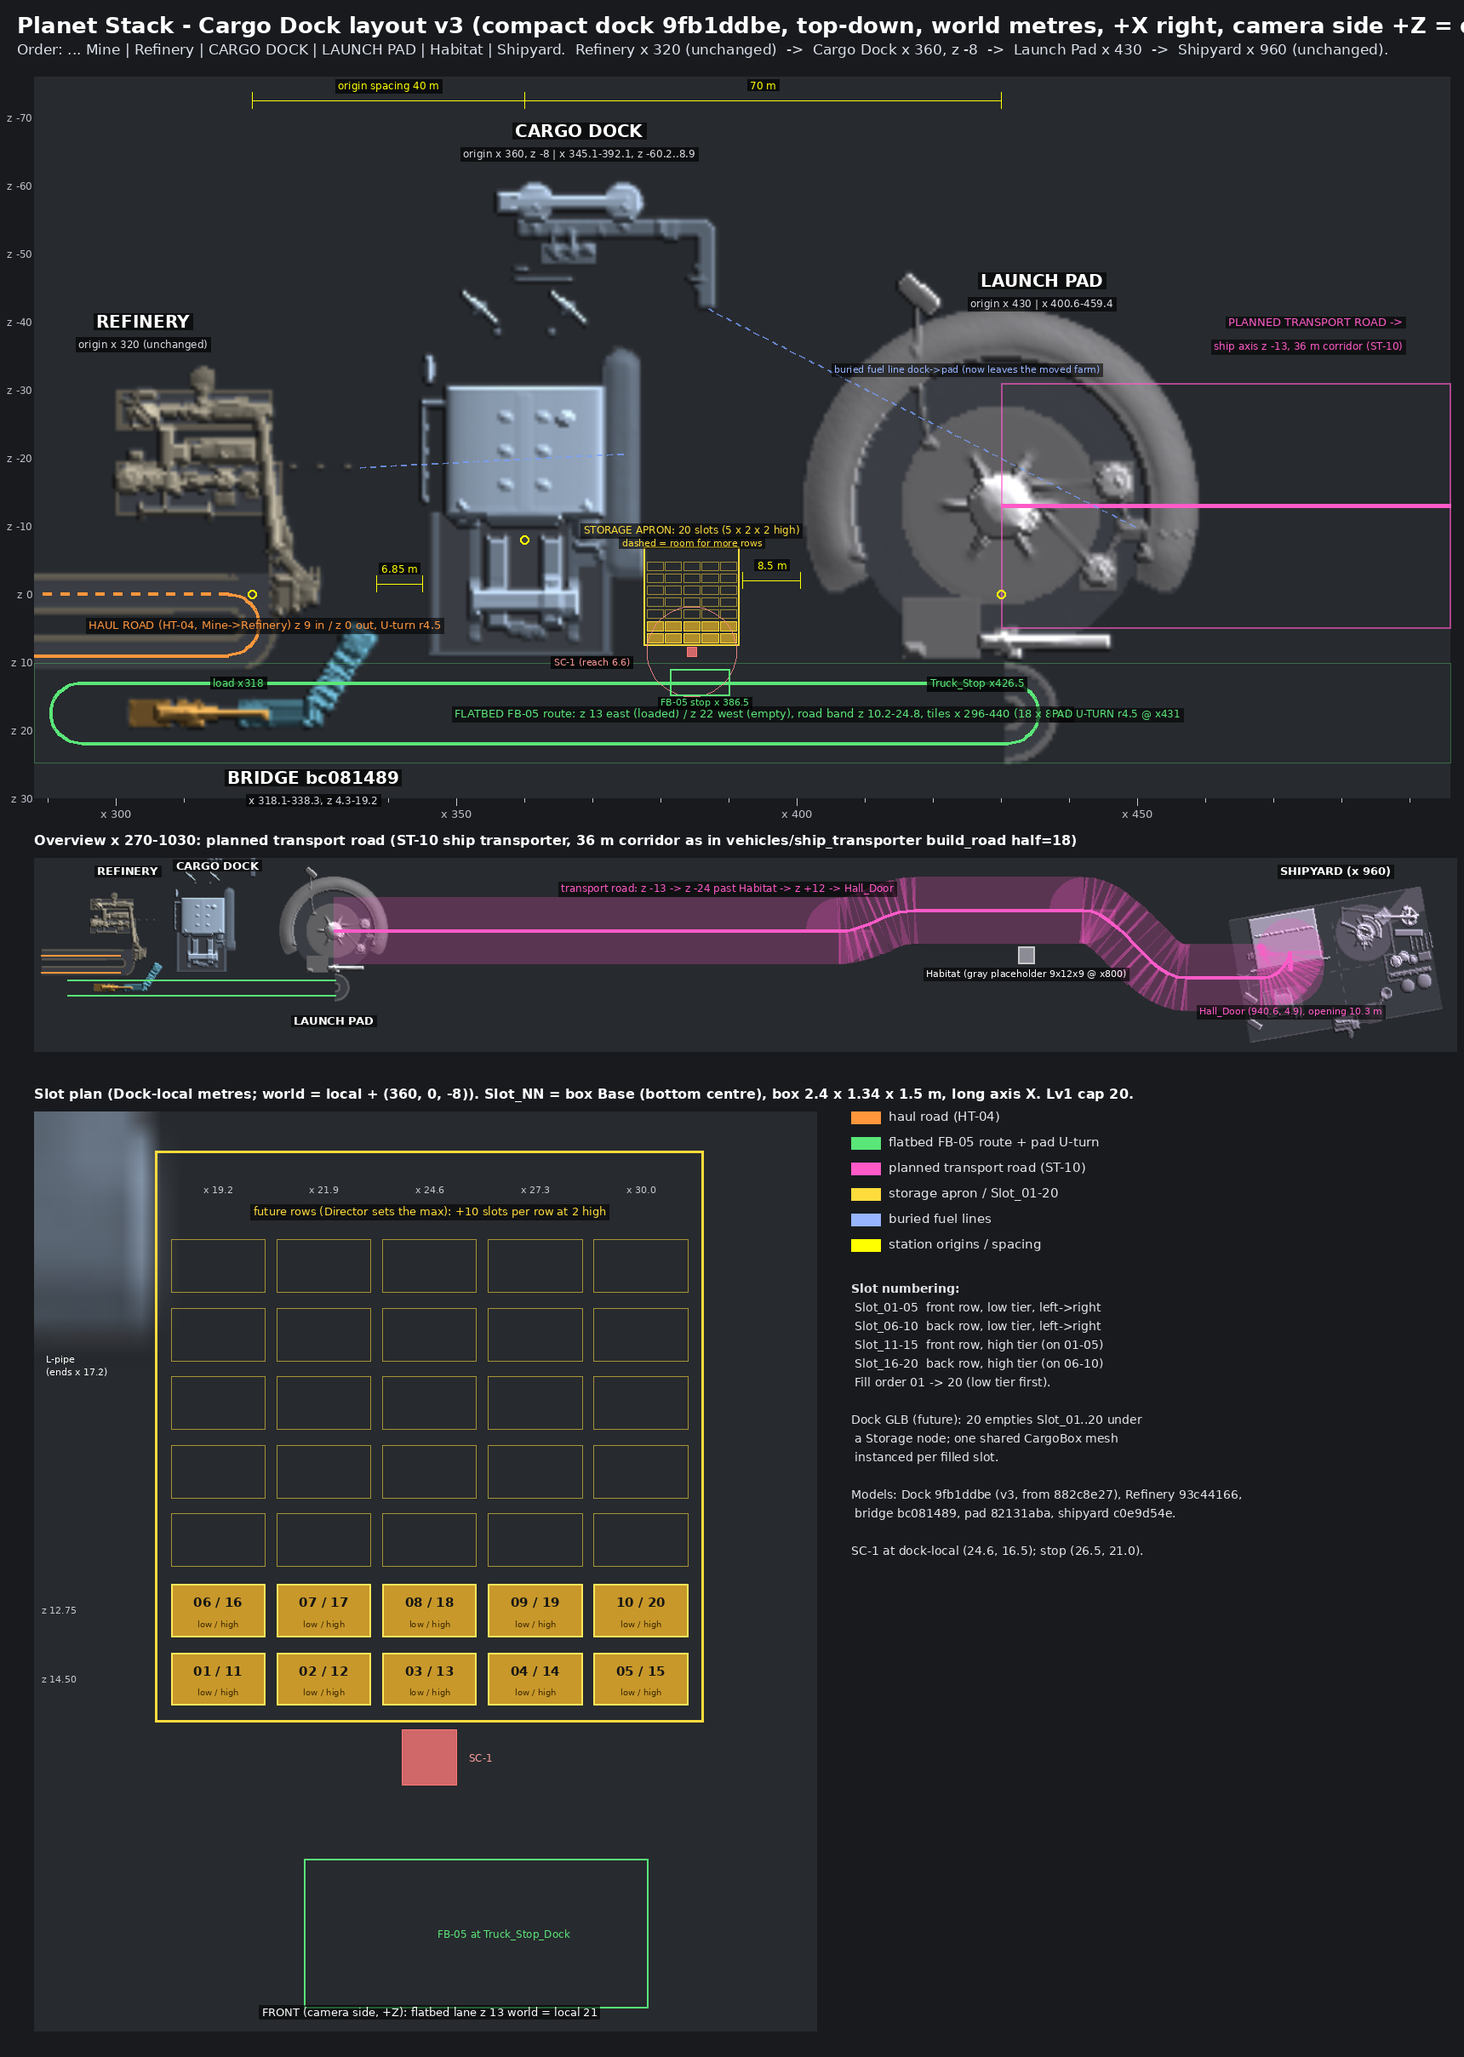
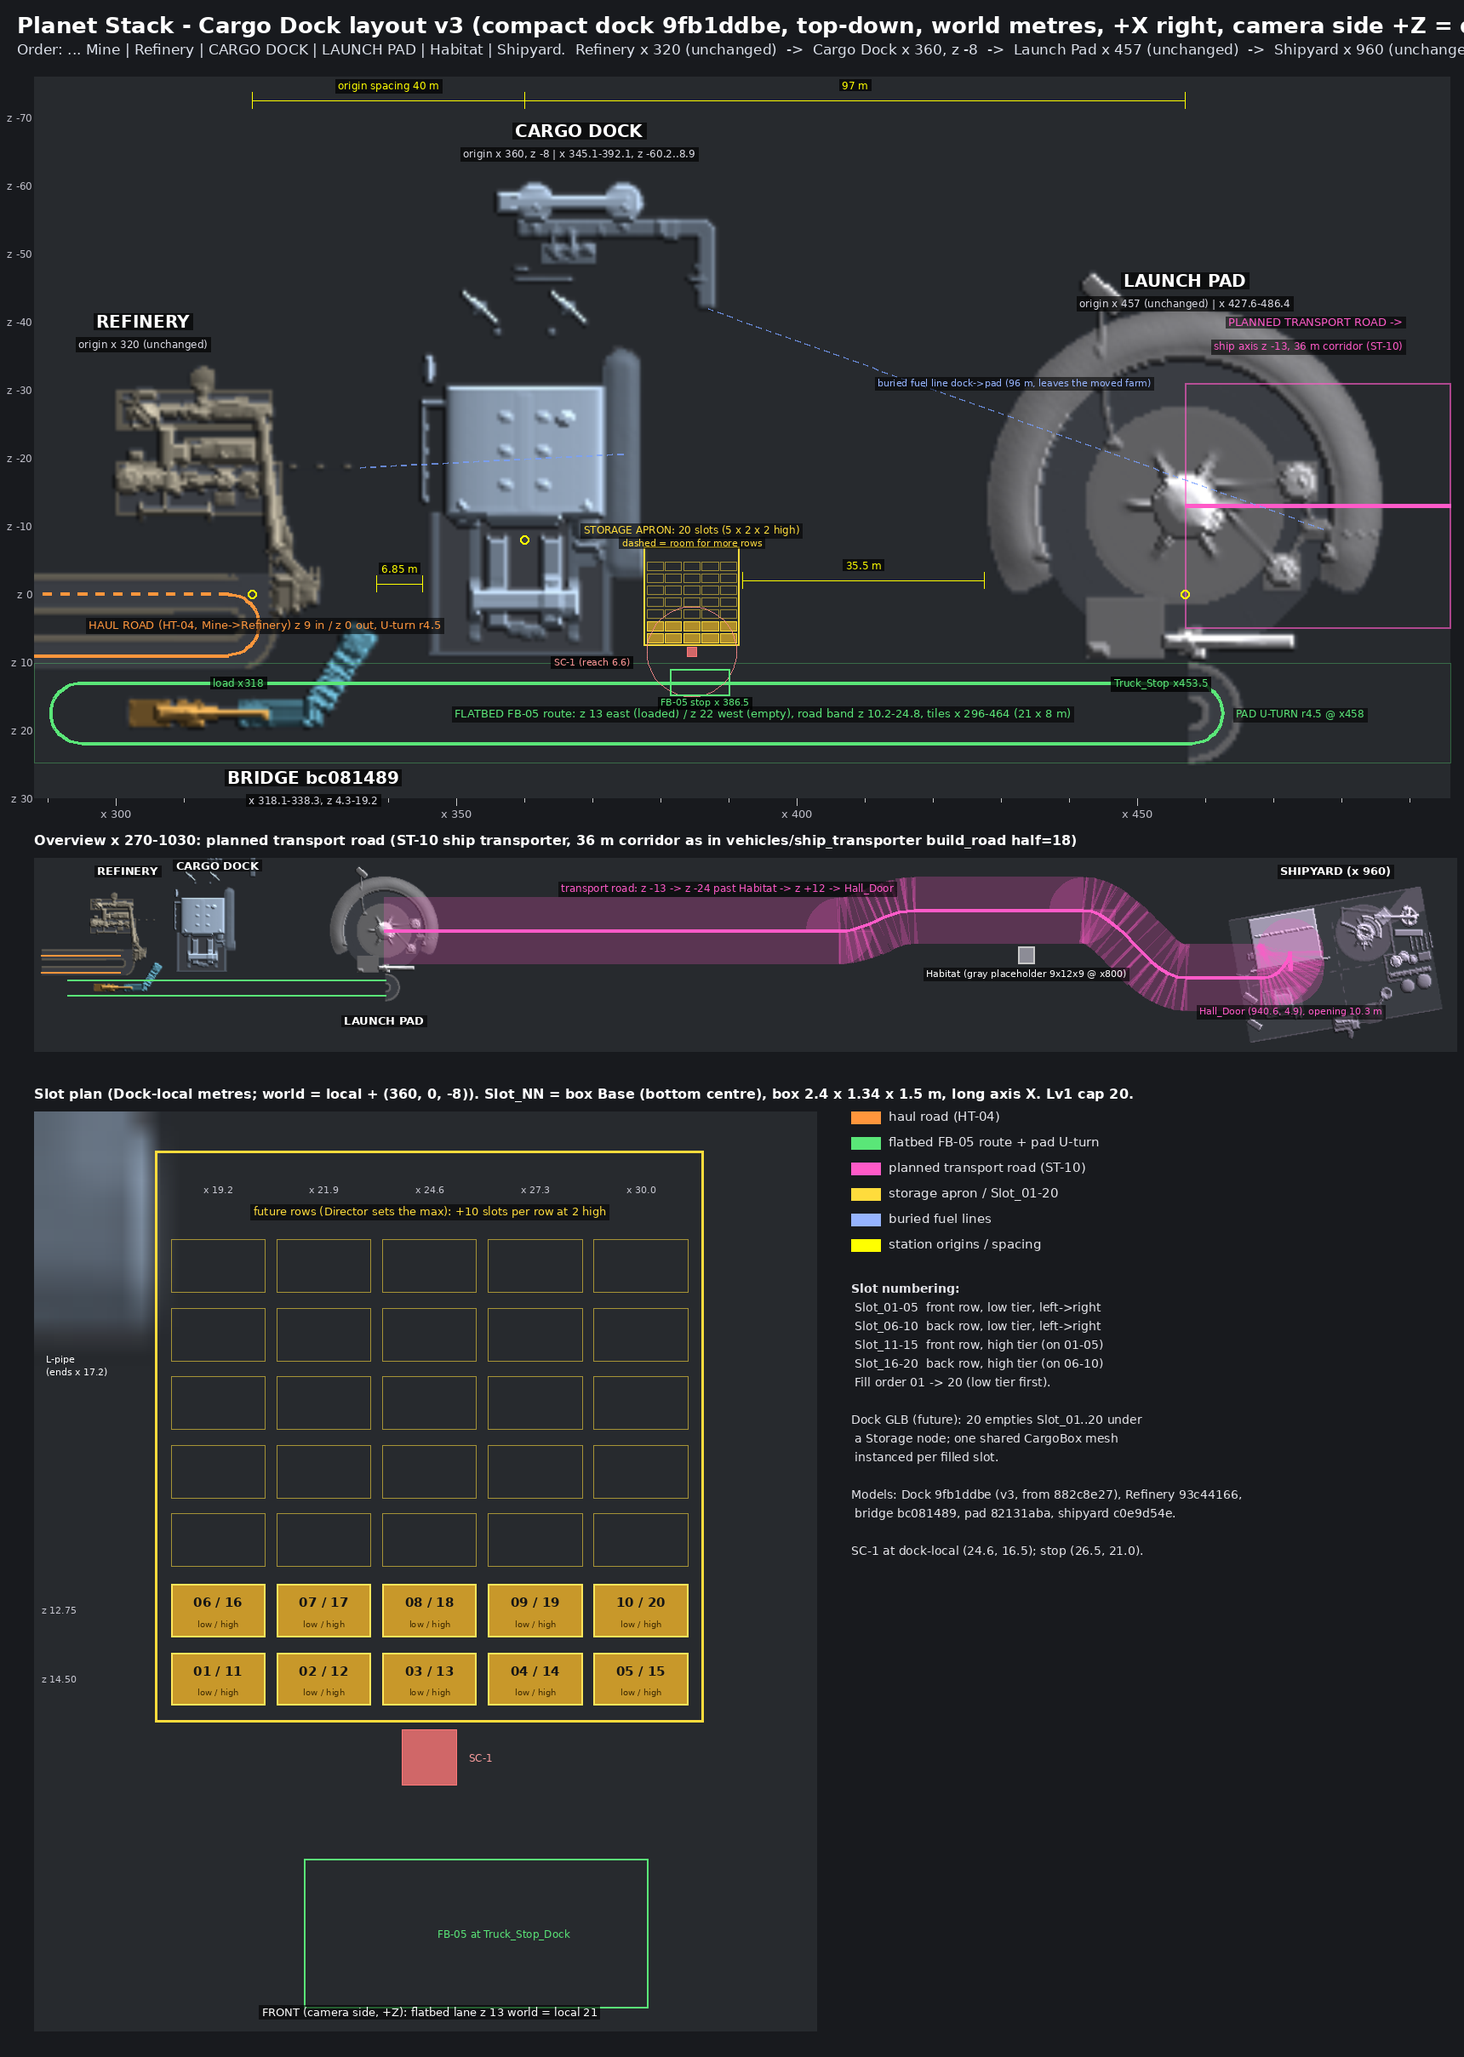
10/24/2026 - planet-stack - 13:36

Changed region(s): [[0.5238, 0.1241, 0.9552, 0.3724], [0.1849, 0.4034, 0.3081, 0.4965]]

diff --git a/art/3d/buildings/cargo_dock/layout_v3/_src/layout_v3.py b/art/3d/buildings/cargo_dock/layout_v3/_src/layout_v3.py
@@ -11,7 +11,7 @@ ID = np.frombuffer(raw[NX * NZ * 4:].tobytes(), dtype=np.int16).reshape(NZ, NX)
 INFO = {i['name']: i for i in d['info']}; NAMES = [i['name'] for i in d['info']]
 COL = {'Refinery': (224, 214, 190), 'Bridge': (120, 200, 230), 'Crane': (240, 180, 90), 'Dock': (200, 225, 255), 'LaunchPad': (230, 230, 236), 'Shipyard': (215, 205, 235)}
 F = lambda s, b=False: ImageFont.truetype('/usr/share/fonts/truetype/dejavu/DejaVuSans%s.ttf' % ('-Bold' if b else ''), s)
-DOCK = (360.0, -8.0); PAD = (430.0, 0.0); REF = 320.0; SY = 960.0
+DOCK = (360.0, -8.0); PAD = (457.0, 0.0); REF = 320.0; SY = 960.0
 S = json.load(open(SJ))
 
 def shade(x0, x1, z0, z1, ppm):
@@ -50,7 +50,7 @@ A = dict(x0=288, x1=496, z0=-76, z1=30, k=8)
 Bv = dict(x0=270, x1=1030, z0=-52, z1=52, k=2.2)
 img = Image.new('RGB', (W, 2700), (24, 26, 30)); dr = ImageDraw.Draw(img)
 dr.text((20, 14), 'Planet Stack - Cargo Dock layout v3 (compact dock 9fb1ddbe, top-down, world metres, +X right, camera side +Z = down)', font=F(26, True), fill=(255, 255, 255))
-dr.text((20, 48), 'Order: ... Mine | Refinery | CARGO DOCK | LAUNCH PAD | Habitat | Shipyard.  Refinery x 320 (unchanged)  ->  Cargo Dock x 360, z -8  ->  Launch Pad x 430  ->  Shipyard x 960 (unchanged).', font=F(17), fill=(220, 225, 235))
+dr.text((20, 48), 'Order: ... Mine | Refinery | CARGO DOCK | LAUNCH PAD | Habitat | Shipyard.  Refinery x 320 (unchanged)  ->  Cargo Dock x 360, z -8  ->  Launch Pad x 457 (unchanged)  ->  Shipyard x 960 (unchanged).', font=F(17), fill=(220, 225, 235))
 # ---------- panel A
 oy = 90; ia = shade(A['x0'], A['x1'], A['z0'], A['z1'], A['k']); img.paste(ia, (40, oy)); pa = Panel(img, 40, oy, A['x0'], A['z0'], A['k'])
 for x in range(290, 497, 10): pa.d.line([pa.p(x, A['z1']), (pa.p(x, A['z1'])[0], pa.p(x, A['z1'])[1] + (8 if x % 50 == 0 else 4))], fill=(200, 200, 200), width=1)
@@ -65,22 +65,22 @@ FBc = (90, 230, 120); ux = PAD[0] + 1
 pa.line([(318, 13), (ux, 13)], FBc, 4); pa.line(arc(ux, 17.5, 4.5, -math.pi / 2, math.pi / 2), FBc, 4); pa.line([(ux, 22), (295, 22)], FBc, 4)
 pa.line(arc(295, 17.5, 4.5, math.pi / 2, 1.5 * math.pi), FBc, 4); pa.line([(295, 13), (318, 13)], FBc, 4)
 pa.d.rectangle([*pa.p(288, 10.2), *pa.p(496, 24.8)], outline=(90, 230, 120, 90), width=1)
-pa.text(395, 17.5, 'FLATBED FB-05 route: z 13 east (loaded) / z 22 west (empty), road band z 10.2-24.8, tiles x 296-440 (18 x 8 m)', col=FBc, sz=13)
-pa.text(318, 13, 'load x318', col=FBc, sz=12, bg=(0, 0, 0, 200)); pa.text(PAD[0] - 3.5, 13, 'Truck_Stop x426.5', col=FBc, sz=12, bg=(0, 0, 0, 200))
-pa.text(ux + 6.5, 17.5, 'PAD U-TURN r4.5 @ x431', col=FBc, sz=12, anchor='lm')
+pa.text(395, 17.5, 'FLATBED FB-05 route: z 13 east (loaded) / z 22 west (empty), road band z 10.2-24.8, tiles x 296-464 (21 x 8 m)', col=FBc, sz=13)
+pa.text(318, 13, 'load x318', col=FBc, sz=12, bg=(0, 0, 0, 200)); pa.text(PAD[0] - 3.5, 13, 'Truck_Stop x453.5', col=FBc, sz=12, bg=(0, 0, 0, 200))
+pa.text(ux + 6.5, 17.5, 'PAD U-TURN r4.5 @ x458', col=FBc, sz=12, anchor='lm')
 # transport road start (pad right, far side)
 TR = (255, 90, 200); pa.line([(PAD[0], -13), (496, -13)], TR, 5); pa.d.rectangle([*pa.p(PAD[0], -31), *pa.p(496, 5)], outline=(255, 90, 200, 160), width=2)
 pa.text(489, -40, 'PLANNED TRANSPORT ROAD ->', col=TR, sz=13, anchor='rm'); pa.text(489, -36.5, 'ship axis z -13, 36 m corridor (ST-10)', col=TR, sz=12, anchor='rm')
 # station labels + origins
 def lab(x, z, t, sub): pa.text(x, z, t, sz=20, b=True, bg=(0, 0, 0, 170)); pa.text(x, z + 3.2, sub, sz=12, bg=(0, 0, 0, 170), col=(220, 220, 230))
 lab(304, -40, 'REFINERY', 'origin x 320 (unchanged)'); lab(329, 27, 'BRIDGE bc081489', 'x 318.1-338.3, z 4.3-19.2')
-lab(368, -68, 'CARGO DOCK', 'origin x 360, z -8 | x 345.1-392.1, z -60.2..8.9'); lab(436, -46, 'LAUNCH PAD', 'origin x 430 | x 400.6-459.4')
+lab(368, -68, 'CARGO DOCK', 'origin x 360, z -8 | x 345.1-392.1, z -60.2..8.9'); lab(457, -46, 'LAUNCH PAD', 'origin x 457 (unchanged) | x 427.6-486.4')
 for (x, z) in ((320, 0), (DOCK[0], DOCK[1]), (PAD[0], 0)):
     q = pa.p(x, z); pa.d.ellipse([q[0] - 5, q[1] - 5, q[0] + 5, q[1] + 5], outline=(255, 255, 0), width=2)
 # spacing dims
 def dim(x0, x1, z, t):
     pa.line([(x0, z), (x1, z)], (255, 255, 0), 1); [pa.line([(x, z - 1.2), (x, z + 1.2)], (255, 255, 0), 1) for x in (x0, x1)]; pa.text((x0 + x1) / 2, z - 2.3, t, col=(255, 255, 0), sz=12, bg=(0, 0, 0, 180))
-dim(338.25, 345.1, -1.5, '6.85 m'); dim(392.1, 400.6, -2, '8.5 m'); dim(320, 360, -72.5, 'origin spacing 40 m'); dim(360, 430, -72.5, '70 m')
+dim(338.25, 345.1, -1.5, '6.85 m'); dim(392.1, 427.6, -2, '35.5 m'); dim(320, 360, -72.5, 'origin spacing 40 m'); dim(360, 457, -72.5, '97 m')
 # storage apron + slots
 for s_ in S['slots']:
     x, y, z = s_['world']
@@ -95,8 +95,8 @@ pa.line(arc(CW[0], CW[2], 6.6, 0, 2 * math.pi, 48), (255, 140, 140, 220), 1, das
 pa.rect(ST[0] - 5.09, 11.1, ST[0] + 3.69, 14.9, (90, 230, 120), w=2); pa.text(ST[0], 15.9, 'FB-05 stop x %.1f' % ST[0], col=(90, 230, 120), sz=11, bg=(0, 0, 0, 200))
 pa.text(CW[0] - 9, CW[2] + 1.5, 'SC-1 (reach 6.6)', col=(255, 150, 150), sz=11, bg=(0, 0, 0, 200), anchor='rm')
 # pipes
-pa.line([(335.9, -18.62), (360 + 14.5, -8 - 12.6)], (120, 160, 255, 200), 2, dash=6); pa.line([(387.0, -41.9), (450.3, -9.6)], (120, 160, 255, 200), 2, dash=6)
-pa.text(425, -33, 'buried fuel line dock->pad (now leaves the moved farm)', col=(150, 180, 255), sz=11)
+pa.line([(335.9, -18.62), (360 + 14.5, -8 - 12.6)], (120, 160, 255, 200), 2, dash=6); pa.line([(387.0, -41.9), (477.3, -9.6)], (120, 160, 255, 200), 2, dash=6)
+pa.text(432, -31, 'buried fuel line dock->pad (96 m, leaves the moved farm)', col=(150, 180, 255), sz=11)
 # ---------- panel B overview
 oyb = oy + ia.size[1] + 70; ib = shade(Bv['x0'], Bv['x1'], Bv['z0'], Bv['z1'], Bv['k']); img.paste(ib, (40, oyb)); pb = Panel(img, 40, oyb, Bv['x0'], Bv['z0'], Bv['k'])
 dr.text((40, oyb - 30), 'Overview x 270-1030: planned transport road (ST-10 ship transporter, 36 m corridor as in vehicles/ship_transporter build_road half=18)', font=F(16, True), fill=(255, 255, 255))
@@ -106,7 +106,7 @@ TRP = [(PAD[0], -13), (700, -13)] + [(700 + 40 * t, -13 - 11 * (1 - math.cos(mat
 TRP = TRP[:-1] + [(941, 8.4), (940.6, 4.9)]
 for w_, col in ((36 * Bv['k'], (255, 90, 200, 60)), (4, TR)): pb.d.line([pb.p(*q) for q in TRP], fill=col, width=int(w_), joint='curve')
 pb.rect(795.5, -4.5, 804.5, 4.5, (200, 200, 200), fill=(140, 140, 150, 255)); pb.text(800, 10, 'Habitat (gray placeholder 9x12x9 @ x800)', sz=11)
-pb.text(320, -45, 'REFINERY', sz=13, b=True); pb.text(368, -48, 'CARGO DOCK', sz=13, b=True); pb.text(430, 35, 'LAUNCH PAD', sz=13, b=True); pb.text(965, -45, 'SHIPYARD (x 960)', sz=13, b=True)
+pb.text(320, -45, 'REFINERY', sz=13, b=True); pb.text(368, -48, 'CARGO DOCK', sz=13, b=True); pb.text(457, 35, 'LAUNCH PAD', sz=13, b=True); pb.text(965, -45, 'SHIPYARD (x 960)', sz=13, b=True)
 pb.text(941, 30, 'Hall_Door (940.6, 4.9), opening 10.3 m', col=TR, sz=11); pb.text(640, -36, 'transport road: z -13 -> z -24 past Habitat -> z +12 -> Hall_Door', col=TR, sz=12)
 # ---------- panel C slots
 oyc = oyb + ib.size[1] + 70; k = 46; x0l, x1l, z0l, z1l = 14.5, 34.5, 0.0, 23.5

diff --git a/art/3d/buildings/cargo_dock/layout_v3/_src/make_slots_v3.py b/art/3d/buildings/cargo_dock/layout_v3/_src/make_slots_v3.py
@@ -1,7 +1,7 @@
 """Layout v3 slot plan: same 20 slots / numbering / fill order as v2, apron moved to the dock's right (former tank-farm front)."""
 import json, sys
 OUT = sys.argv[1]
-DOCK = [360.0, 0.0, -8.0]; PAD_X = 430.0
+DOCK = [360.0, 0.0, -8.0]; PAD_X = 457.0  # Launch Pad stays at x 457 (Director 10/24); only the Dock moved
 COLS = [19.2, 21.9, 24.6, 27.3, 30.0]; ROWS = [14.5, 12.75]; TY = [0.12, 1.62]
 CRANE_L = [24.6, 0.0, 16.5]; STOP_L = [26.5, 0.0, 21.0]
 w = lambda l: [round(l[0] + DOCK[0], 4), round(l[1], 4), round(l[2] + DOCK[2], 4)]

diff --git a/art/3d/buildings/cargo_dock/layout_v3/README.md b/art/3d/buildings/cargo_dock/layout_v3/README.md
@@ -18,7 +18,16 @@ This layout replaces the v2b framing from 272e158, which Director rejected: at f
 | Hall, yard, gantry, door, beacons, crew path, Road_Entry, Crate_Drop, Container_Stack, Tier_03/08 | unchanged |
 
 - The dock footprint without tiers is now **x -14.9..28, z -52.2..16.94**. In v2 it was x -24.8..48.
-- **Caveat: `Tier_20` spans both the hall and the farm and was not moved.** Re-place it before the Lv20 tier is shown. Tier visibility is unchanged; Lv1 hides all `Tier_*`.
+- **`Tier_20` is not moved in the shipped GLB, which keeps md5 9fb1ddbe.** It is one mesh (`mesh_11`) with three parts. Before the Lv20 tier is shown, re-place it as follows (dock-local metres, positions as in the v3 GLB):
+
+| Tier_20 part | Now (bbox x, z) | Lv20 placement |
+|---|---|---|
+| RAD-2 second radiator wing + loop (outboard of RAD-1) | x -18.9..-14.52, z -21.07..-5.70, h 7.05 | **stays**. At Lv20 it is the dock's left edge, world 341.1, and is 6.85 m from the Refinery and more from the bridge, so it passes the 5 m rule. |
+| Yard container stacks (stack 31 two-high, stack 32) | x -11.62..-9.18, z -0.63..12.04 | **stays** (yard front-left) |
+| LH2-2 tank + `lh22_drop` pipe (farm row B) | x 22.03..27.45, z -18.2..-3.54 (would float behind the apron) | **move by (-20, 0, -42)**, the farm offset, to x 2.03..7.45, z -60.2..-45.54. That puts it back in its designed row-B slot next to LOX-2 (Tier_05) and Tier_12, which already moved by the same offset. |
+
+  - Exact rule: move the islands of `mesh_11` whose bbox centre is at x > 15.8 by (-20, 0, -42), and leave the rest. `node _src/compact_dock.mjs dock_882c.glb OUT.glb --tier20` does exactly that. It writes a variant (md5 `77dc612bc5adf3941d7988320dd88b51`, validator 0/0) that differs from 9fb1ddbe only in Tier_20. It is not committed; build it when the Lv20 tier is wired.
+  - Tier visibility is unchanged; Lv1 hides all `Tier_*`.
 
 ## World placement (all y 0)
 | Item | v3 world | v2 world |
@@ -28,17 +37,20 @@ This layout replaces the v2b framing from 272e158, which Director rejected: at f
 | Storage apron (0.12 m slab) | x 377.6..391.6, z -7..7.6 (dock-local x 17.6..31.6, z 1..15.6) | x 343.7..357.7 |
 | **SC-1 crane** | **(384.6, 0, 8.5)** (dock-local 24.6, 0, 16.5), footing z up to 9.2 | (350.7, 0, 8.5) |
 | **Flatbed dock stop `Truck_Stop_Dock`** | **(386.5, 0, 13)**, loaded lane z 13, heading +X. Pick_A 385.35, Pick_B 382.85. | (352.6, 0, 13) |
-| **Launch Pad origin** | **x 430** (pad x 400.6..459.4). Pad Truck_Stop 426.5, U-turn r 4.5 at x 431. Road tiles x 296..440 (18 x 8 m). | x 457 |
+| Launch Pad origin | **x 457, unchanged** (pad x 427.6..486.4). Pad Truck_Stop 453.5, U-turn r 4.5 at (458, 17.5), road tiles x 296..464 (21 x 8 m), all as in v2. | x 457 |
+
+Only the Dock moved (373 -> 360). The Launch Pad and all road data stay at their v2 values. A 13:30 draft had moved the pad to 430; Director rejected that. The stills were re-rendered with the pad at 457 and came out byte-identical (the pad is outside the frame at both sizes), so their md5s are unchanged.
 
 The 20 slots keep the same numbering, the same 5 x 2 x 2 grid, the same fill order and the same box. Columns are at dock-local x 19.2 / 21.9 / 24.6 / 27.3 / 30.0, rows at z 14.5 (front) / 12.75, tiers at y 0.12 / 1.62. See `cargo_dock_slots_lv1_v3.json`. The future rows (z 10.95..3.95) are free ground now that the farm has moved. Per Director, they get a second SC-1, not a longer jib.
 
 ## Checks
 - **Refinery bridge:** the dock's left edge is at 345.1 and the bridge's right edge at 338.25, so the gap is **6.85 m** (≥ 5 m). The nearest parts are the stair railing and the moved mast.
 - **Clear strip:** dock ground geometry reaches z 8.94, the apron 7.6 and the crane footing 9.2. All are ≤ 9.2, so the 1 m strip before the road band (z 10.2..24.8) is kept.
-- **Flatbed route:** east on z 13 from the load point at x 318 to the dock stop at 386.5, then on to the pad Truck_Stop at 426.5, the U-turn at 431, and west on z 22.
+- **Flatbed route:** east on z 13 from the load point at x 318 to the dock stop at 386.5, then on to the pad Truck_Stop at 453.5, the U-turn at x 458 (outer edge 462.5, inside the tiles to 464), and west on z 22. Along z 13 between the dock stop and the pad stop, the road band (z 10.2..24.8) holds no dock or pad geometry above 0.3 m, and dock geometry stops at z 8.94. At rest the SC-1 jib is at y 6.3 or higher, above FB-05's 3.79 m.
   - The FB-05 body at the stop spans x 381.4..390.2, z 11.1..14.9.
   - The crane envelope reaches z 16.0, which is clear of the empty lane (band from z 19.7).
-  - Dock right edge (crane/apron) at 392.1 to the pad's left edge at 400.6 is a gap of 8.5 m.
+  - From the Dock's right edge (crane/apron, x 392.1) to the Launch Pad's left edge (427.6) is **35.5 m**. The nearest real geometry is 36.2 m apart in the height map, so nothing overlaps. The pad's right edge stays at x 486.4.
+  - The buried fuel line runs from `Pipe_LaunchPad` (world 387, -41.9) to the pad receiver (477.3, -9.6), which is about 96 m (57 m in v2).
 - **No overlaps:** in the 0.5 m height map (`_src/cfg_world_v3.json` + `_src/hmap.mjs`), the apron and the crane zone (dock-local x 17.5..34, z -1..17) contain no dock geometry.
 - **SC-1 re-bake:** md5 `fad409cc8230f1250bb6e9b7bfb79b3a`, 3 draws, 464 tris, 40 clips. Run with `verify_storage_crane.mjs` against the v3 dock height map:
   - pick and set error < 1e-6 m, yaw 0;

diff --git a/art/3d/buildings/cargo_dock/storage_crane/SPEC.md b/art/3d/buildings/cargo_dock/storage_crane/SPEC.md
@@ -19,7 +19,7 @@
 
 All crane-local offsets (slots, picks, stop) are identical to layout v2. Only the world placement moved (v2: crane at 350.7, stop at 352.6, dock at 373). So the 40 baked clips are numerically the same motion; they were re-baked and re-checked anyway.
 
-The flatbed stops at `Truck_Stop_Dock` on its way east (Refinery load x 318, then this stop, then the pad Truck_Stop at 426.5 with the pad at x 430) whenever boxes go to storage instead of the ship. Both bed slots are reachable from this one stop, so the truck does not need to creep forward.
+The flatbed stops at `Truck_Stop_Dock` on its way east (Refinery load x 318, then this stop, then the pad Truck_Stop at 453.5 with the Launch Pad at x 457) whenever boxes go to storage instead of the ship. Both bed slots are reachable from this one stop, so the truck does not need to creep forward.
 
 The crane GLB also carries `Truck_Stop_Dock`, `Pick_A`, `Pick_B` and `Slot_01..Slot_20` as empties in crane-local coordinates. For each slot, the empty sits where the CargoBox Base goes (yaw 0), matching `../layout_v3/cargo_dock_slots_lv1_v3.json` (the same values as `../layout_v2/cargo_dock_slots_lv1.json` in crane-local terms). A future dock GLB can carry the same Slot nodes; the values are identical.
 
@@ -75,7 +75,7 @@ Fill order is Slot_01 to Slot_20:
   - the FB-05 cab (top 3.79) by ≥ 0.31 m;
   - the pillar by ≥ 0.99 m.
 - The carried box never passes over any cell of the compact dock (`cargo_dock_compact_v3.glb`, 0.5 m height map), and the jib/counter-jib sweep never passes over dock geometry. The nearest dock part is the shortened L-pipe end at dock-local x 17.2 (world 377.2, h 1.7), left of the apron.
-- The bridge (right edge x 338.25) is 46 m away. The crane envelope is x 377.1–392.1, z 1.0–16.0. That is clear of the empty lane z 22 (band from 19.7) and 8.5 m from the pad's left edge at 400.6.
+- The bridge (right edge x 338.25) is 46 m away. The crane envelope is x 377.1–392.1, z 1.0–16.0. That is clear of the empty lane z 22 (band from 19.7) and 35.5 m from the Launch Pad's left edge at 427.6.
 - The whole crane envelope (all clips plus the carried box) stays inside the v3 dock camera, ct (369.5, 1.5, 8.6) with frame_w 48:
   - 375×667: crane px x 247.9–367.1, y 273.8–346.1. Band 144–383, so spare is R 7.9, T 129.8, B 36.9. The crane is 63 px tall; the jib reads 15–59 px long depending on slew.
   - 393×852: crane px x 259.7–384.0, y 363.0–439.2. Band 165–534, so spare is R 9.0, T 198.0, B 94.8. The crane is 66 px tall.
